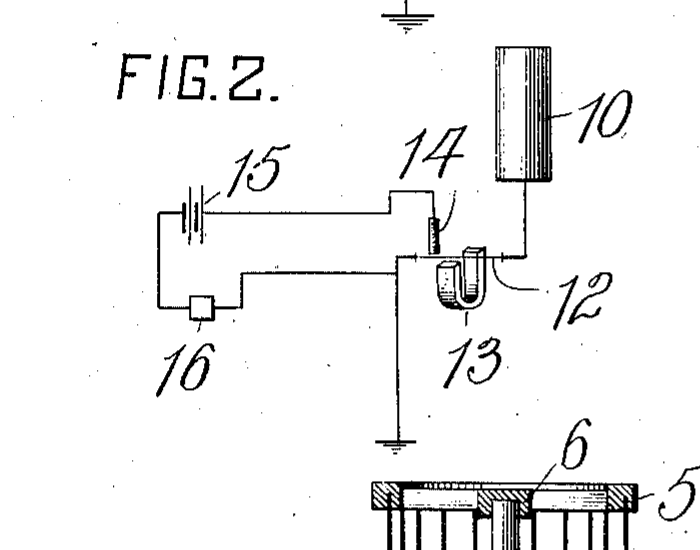
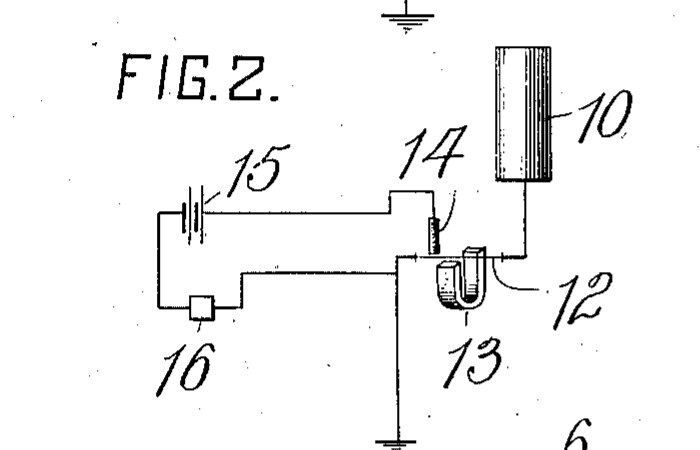
chore(figures): update fessenden v3 crops

Changed region(s): [[0.15, 0.0622, 0.93, 0.8711], [0.51, 0.6533, 1.0, 1.0], [0.54, 0.0, 0.63, 0.0933]]

diff --git a/src/data/editions/hewittMercuryLampEdition.ts b/src/data/editions/hewittMercuryLampEdition.ts
@@ -71,8 +71,8 @@ export const hewittMercuryLampParallelReadings: Readonly<Record<number, readonly
   8: [
     "Formal transition to the enumerated claims establishing exclusive patent rights over the combination of vapor conduction, inductive starting, and automatic cutout mechanisms.",
   ],
-  17: [
-    "Formal execution and subscription of the patent specification signed by Peter Cooper Hewitt in the presence of subscribing witnesses Henry Noel Potter and Wm. H. Capel.",
+  42: [
+    "Formal execution and subscription of the patent specification signed by Peter Cooper Hewitt on March 21, 1900 in the presence of subscribing witnesses Henry Noel Potter and Wm. H. Capel.",
   ],
 };
 
@@ -215,7 +215,7 @@ export const hewittMercuryLampArchivalEdition: CuratedSpecificationEdition = {
       number: 1,
       inlines: [
         text(
-          "1. A lamp for producing light by electric energy consisting of an inclosing chamber, a gas or vapor contained therein capable under the influence of electric currents of emitting light, electrodes for the chamber, and a cooling or condensing chamber for the gas or vapor.",
+          "1. A lamp for producing light by electric energy consisting of an inclosing chamber, a gas or vapor contained therein capable, under proper conditions, of conducting currents of considerable quantity under the influence of moderate difference of potential, and a starting material also contained within the chamber and serving to convey a starting-current under the influence of a higher difference of potential.",
         ),
       ],
     },
@@ -224,7 +224,7 @@ export const hewittMercuryLampArchivalEdition: CuratedSpecificationEdition = {
       number: 2,
       inlines: [
         text(
-          "2. The combination with a lamp for producing light by the conduction of electric currents through a gas or vapor, of an inclosing chamber, electrodes, a cooling or condensing chamber, and means for preventing condensation in the path of the current.",
+          "2. In a gas or vapor lamp, the combination with a conducting vapor or gas constituting the sole path for the current while the lamp is in operation, of a starting material serving to permit the initial passage of the electric current through the lamp.",
         ),
       ],
     },
@@ -233,7 +233,7 @@ export const hewittMercuryLampArchivalEdition: CuratedSpecificationEdition = {
       number: 3,
       inlines: [
         text(
-          "3. The combination with a lamp for producing light by the conduction of electric currents through a gas or vapor, of an inclosing chamber, electrodes, a cooling or condensing chamber, and means for returning the condensed vapor to the cathode.",
+          "3. An electric lamp consisting of a hermetically-sealed inclosing chamber, electrodes within the same, means for securing electrical connection therewith, respectively, through the walls of the chamber, a vapor or gas contained within the chamber having, when traversed by an electric current, a resistance so varying with increments of current as to render it substantially self-regulating, and a steadying resistance in series with the lamp.",
         ),
       ],
     },
@@ -242,7 +242,7 @@ export const hewittMercuryLampArchivalEdition: CuratedSpecificationEdition = {
       number: 4,
       inlines: [
         text(
-          "4. An electric lamp comprising an exhausted transparent tube, a liquid electrode contained in one end of the tube, a solid electrode at the other end, and an enlarged condensing chamber communicating with the tube for maintaining the vapor density at an operative value.",
+          "4. In an electric vapor or gas lamp, the combination of two electrodes located at or near the respective ends of the lamp, a conducting medium between the electrodes consisting of a vapor or gas which is light-emitting under the influence of electric currents of moderate potential, means for applying a preliminary higher difference of potential to the terminals of the lamp for creating a condition on the part of the conducting-vapor which will permit it to conduct currents of moderate potential, and means for thereafter operating the lamp by the currents of moderate potential.",
         ),
       ],
     },
@@ -251,7 +251,7 @@ export const hewittMercuryLampArchivalEdition: CuratedSpecificationEdition = {
       number: 5,
       inlines: [
         text(
-          "5. The method of starting an electric lamp having a vapor path between its electrodes, which consists in applying a momentary electromotive force higher than the normal operating voltage to break down the initial cold resistance, and subsequently maintaining the discharge with a lower operating potential.",
+          "5. In an electric lamp, the combination of an inclosing chamber, two electrodes, a conducting medium between the electrodes consisting of a vapor or gas which is light-emitting under the influence of electric currents of moderate potential, means for applying a higher difference of potential to the terminals of the lamp for producing a condition on the part of the vapor or gas which will render it conductive for currents of considerable quantity and moderate potential, and means for relieving the static charge at or near one of the electrodes caused by the action of the higher difference of potential.",
         ),
       ],
     },
@@ -260,7 +260,232 @@ export const hewittMercuryLampArchivalEdition: CuratedSpecificationEdition = {
       number: 6,
       inlines: [
         text(
-          "6. The combination with an electric lamp operating by vapor conduction, of a supply circuit of moderate potential, a transformer having its secondary connected in series with the lamp, means for interrupting current in the primary of the transformer to produce a high-potential starting impulse, and an automatic cutout for interrupting the primary circuit upon the passage of operating current through the lamp.",
+          "6. In an electric lamp, the combination of an inclosing chamber, two electrodes, a conducting medium between the electrodes consisting of a vapor or gas which is light-emitting under the influence of electric currents of moderate potential, means for applying a higher difference of potential to the terminals of the lamp for producing a condition on the part of the vapor or gas which will render it conductive for currents of considerable quantity and moderate potential, and means for relieving the static charge at or near one of the electrodes caused by the action of the higher difference of potential consisting of a band of conducting material located near, but out of contact with, that electrode, and electrically connected with the other electrode.",
+        ),
+      ],
+    },
+    {
+      kind: "claim",
+      number: 7,
+      inlines: [
+        text(
+          "7. A lamp for producing light by means of electric energy consisting of an inclosing chamber, a gas or vapor contained therein capable, under the proper conditions, of conducting currents of considerable quantity and moderate electromotive force, a starting material within the chamber facilitating the passage of current therethrough under the influence of higher differences of potential, a conducting-band surrounding the inclosing chamber near one of the electrodes of the lamp, and electric connections for leading off the electric charge produced therein under the influence of the electric currents of high differences of potential.",
+        ),
+      ],
+    },
+    {
+      kind: "claim",
+      number: 8,
+      inlines: [
+        text(
+          "8. An electric lamp consisting of a transparent tube, a gas or vapor column contained therein, an electrode at the lower end thereof consisting wholly or in part of liquid, a metallic electrode at or near the upper end of said tube, a cooling and impurity-containing chamber surrounding the upper electrode, and means for securing electric connections with the respective electrodes through the wall of the lamp.",
+        ),
+      ],
+    },
+    {
+      kind: "claim",
+      number: 9,
+      inlines: [
+        text(
+          "9. An electric lamp consisting of a transparent inclosing chamber, an electrode at or near one end of the chamber consisting wholly or in part of mercury, an electrode at or near the other end of the chamber consisting of a body of iron, and means for forming electrical connections with said electrodes through the wall of said chamber.",
+        ),
+      ],
+    },
+    {
+      kind: "claim",
+      number: 10,
+      inlines: [
+        text(
+          "10. An electric lamp consisting of an inclosing chamber, electrodes within said chamber connected with each other through an intervening gas or vapor column, and a static charge dissipator located near one of the electrodes but insulated therefrom and electrically connected with the other electrode.",
+        ),
+      ],
+    },
+    {
+      kind: "claim",
+      number: 11,
+      inlines: [
+        text(
+          "11. An electric lamp consisting of an inclosing chamber and two electrodes at or near the respective ends of said chamber, one of said electrodes consisting of a solid body of not readily vaporizable material free from carbon and other materials liable to be given off thereby in injurious quantities by the operation of the lamp.",
+        ),
+      ],
+    },
+    {
+      kind: "claim",
+      number: 12,
+      inlines: [
+        text(
+          "12. An electrode for electric lamps employing a vapor or gas as a conducting medium consisting of a quantity of mercury and a non-conducting wall constricting the path of the electric current between said vapor or gas and said mercury.",
+        ),
+      ],
+    },
+    {
+      kind: "claim",
+      number: 13,
+      inlines: [
+        text(
+          "13. The combination with an electric lamp wherein light is produced by the passage of electric energy through a hermetically-inclosed gas or vapor, a source of electric currents of moderate difference of potential, connections from said source with the terminals of the lamp, a potential-raising device also connected with said source of electric currents, and means for applying the higher difference of potential produced by said device to the terminals of the lamp while the moderate potential is also applied.",
+        ),
+      ],
+    },
+    {
+      kind: "claim",
+      number: 14,
+      inlines: [
+        text(
+          "14. The combination with an electric lamp in which light is produced by electric energy traversing a hermetically-inclosed vapor or gas, a source of electric currents of moderate electromotive force, electric connections therefrom to the terminals of the lamp, and a potential-raising transformer having its secondary coil connected in the circuit leading to the lamp and its primary coil connected with the source of currents of moderate difference of potential, substantially as and for the purpose described.",
+        ),
+      ],
+    },
+    {
+      kind: "claim",
+      number: 15,
+      inlines: [
+        text(
+          "15. The combination of an electric vapor or gas lamp having a gas or vapor path adapted to be rendered luminous by the passage of an electric current, said vapor path having a resistance so varying with increments of currents employed for its operation as to render it substantially self-regulating, a circuit of low potential for the normal operation of the lamp, and a local circuit of higher potential part of which local circuit forms part of the circuit of low potential, the vapor path forming a part of both circuits.",
+        ),
+      ],
+    },
+    {
+      kind: "claim",
+      number: 16,
+      inlines: [
+        text(
+          "16. The combination with an electric lamp in which light is produced by electric energy acting on a hermetically-inclosed vapor or gas, a source of electric currents of moderate electromotive force, electric connections therefrom to the terminals of the lamp, and a potential-raising transformer having its secondary coil connected in the circuit leading to the lamp and its primary coil connected with the source of currents of moderate difference of potential, with means on starting for shifting from the higher potential to the lower potential circuit, substantially as and for the purpose described.",
+        ),
+      ],
+    },
+    {
+      kind: "claim",
+      number: 17,
+      inlines: [
+        text(
+          "17. The combination in an electric lamp in which light is produced by electric energy acting on a vapor or gas, a source of electric currents of moderate electromotive force, electric connections therefrom to the terminals of the lamp, a potential-raising transformer having its secondary coil connected in the circuit leading to the lamp and its primary coil connected with the source of currents of moderate potential, and an automatic circuit-interrupter for opening the circuit of the primary coil when currents of considerable quantity traverse the lamp under the influence of the normal electromotive force from said source.",
+        ),
+      ],
+    },
+    {
+      kind: "claim",
+      number: 18,
+      inlines: [
+        text(
+          "18. The combination with an electric lamp in which light is produced by electric energy acting on a vapor or gas column, a source of electric currents of moderate electromotive force, electric connections therefrom to the terminals of the lamp, a potential-raising transformer having its secondary coil connected in the circuit leading to the lamp and its primary coil connected with the source of currents of moderate difference of potential, and means for producing rapid variations of current in the primary coil, thereby superposing a higher electromotive force upon the moderate electromotive force applied to the lamp.",
+        ),
+      ],
+    },
+    {
+      kind: "claim",
+      number: 19,
+      inlines: [
+        text(
+          "19. The combination with an electric lamp in which light is produced by the conduction of currents through a path of vapor or gas, of a source of electric currents, connections therefrom with the terminals of the lamp, a converter having its secondary coil connected in said circuit with the lamp and having its primary coil connected with said source, means for rapidly magnetizing and demagnetizing the core of said transformer, a resistance shunt-circuit around the secondary coil of the transformer, and means for closing the connections of said shunt-circuit when the lamp is in operation.",
+        ),
+      ],
+    },
+    {
+      kind: "claim",
+      number: 20,
+      inlines: [
+        text(
+          "20. The combination with an electric lamp in which light is produced by the conduction of currents through a path of vapor or gas, of a source of electric currents, connections therefrom with the terminals of the lamp, a converter having its secondary coil connected in circuit with the lamp, and having its primary coil connected with said source, means for rapidly magnetizing and demagnetizing the core of said transformer, a resistance shunt-circuit around the secondary coil of the transformer, means for closing the connections of said shunt-circuit when the lamp is in operation, and means for simultaneously interrupting the connections of the primary circuit.",
+        ),
+      ],
+    },
+    {
+      kind: "claim",
+      number: 21,
+      inlines: [
+        text(
+          "21. The combination in an electric lamp in which a starting-current of higher electromotive force is required, of a transformer for producing such higher electromotive force having its secondary coil connected with the terminals of the lamp and its primary coil connected with a source of electric currents, connections from said source through the secondary coil, and a circuit-interrupting device for the primary coil operated by the magnetization of the core of the converter under the influence of operating-currents traversing the lamp.",
+        ),
+      ],
+    },
+    {
+      kind: "claim",
+      number: 22,
+      inlines: [
+        text(
+          "22. The combination with a lamp for producing light by the conduction of electric currents through a hermetically-inclosed vapor or gas path, of a source of high difference of potential and a source of moderate difference of potential, means for connecting the lamp with the source of high difference of potential for starting the lamp and with the source of moderate difference of potential for operating the lamp.",
+        ),
+      ],
+    },
+    {
+      kind: "claim",
+      number: 23,
+      inlines: [
+        text(
+          "23. The combination with an electric lamp, two sources of electromotive force, means for connecting said sources in series for starting the lamp, and means for connecting the lamp with one of said sources for operating it when started.",
+        ),
+      ],
+    },
+    {
+      kind: "claim",
+      number: 24,
+      inlines: [
+        text(
+          "24. The combination with an electric lamp having a light-emitting material consisting of a hermetically-inclosed vapor or gas capable of emitting light under the influence of currents of moderate potential, a source of electric currents, means for connecting the lamp with said source, means for creating from the moderate potential currents of higher potential, means for applying the higher potential to the lamp for starting it, and means for discontinuing the high potential when the lamp is started.",
+        ),
+      ],
+    },
+    {
+      kind: "claim",
+      number: 25,
+      inlines: [
+        text(
+          "25. The combination with an electric lamp comprising an inclosing chamber and a vapor or gas forming a path for the current between the electrodes of the lamp, of a transformer, means for causing independent variations in the current traversing the primary coil of the transformer, and circuit connections through the secondary coil of the transformer with a source of electric currents.",
+        ),
+      ],
+    },
+    {
+      kind: "claim",
+      number: 26,
+      inlines: [
+        text(
+          "26. The combination with an electric lamp comprising an inclosing chamber and a vapor or gas forming a path for the current between the electrodes of the lamp, of a transformer, means for causing independent variations in the current traversing the primary coil of the transformer, connections through the secondary coil of the transformer with a source of electric currents, and means for interrupting the flow of currents through the primary coil.",
+        ),
+      ],
+    },
+    {
+      kind: "claim",
+      number: 27,
+      inlines: [
+        text(
+          "27. The combination with an electric lamp having a hermetically-inclosed gas or vapor path, of a circuit leading to the terminals thereof, a transformer the secondary coil of which is included in said circuit, means for causing a rapidly-varying current to traverse the primary of the transformer, and means for interrupting the circuit of said primary coil, by the action of current flowing through the lamp.",
+        ),
+      ],
+    },
+    {
+      kind: "claim",
+      number: 28,
+      inlines: [
+        text(
+          "28. The combination with an electric lamp of the character described, of a circuit leading to the terminals thereof, a transformer the secondary coil of which is included in said circuit, means for causing a varying current to traverse the primary of the transformer, means for interrupting the circuit of said primary coil by the action of currents of lower potential flowing through the lamp, and means for cutting the secondary coil out of circuit when the lamp is operating.",
+        ),
+      ],
+    },
+    {
+      kind: "claim",
+      number: 29,
+      inlines: [
+        text(
+          "29. The combination with a lamp of the character described, of a permanent source of electric current connected to the terminals of the said lamp through the secondary of a transformer, a second circuit from the said source, including the primary of the said transformer, and means for varying the current in the said primary and afterward cutting out the circuit of the primary by the action of the current passing through the lamp.",
+        ),
+      ],
+    },
+    {
+      kind: "claim",
+      number: 30,
+      inlines: [
+        text(
+          "30. The combination with an electric lamp, of a main supply-circuit, connections therefrom through the secondary coil of a transformer with the terminals of the lamp, a primary coil for the transformer, a circuit-interrupter, means for connecting said primary coil and circuit-interrupter with the supply-circuit, and means for interrupting the primary-coil circuit by the action of currents supplying the lamp.",
+        ),
+      ],
+    },
+    {
+      kind: "claim",
+      number: 31,
+      inlines: [
+        text(
+          "31. The combination of a translating device, a source of current, a transformer having one coil connected in series with the translating device and with the source of current, means for creating independent time variations in the supply-current traversing the other coil, whereby the electromotive force of the current in the first-named coil is modified, and a device for automatically cutting out the means for creating the independent time variations, through the instrumentality of currents passing through the translating device.",
         ),
       ],
     },
